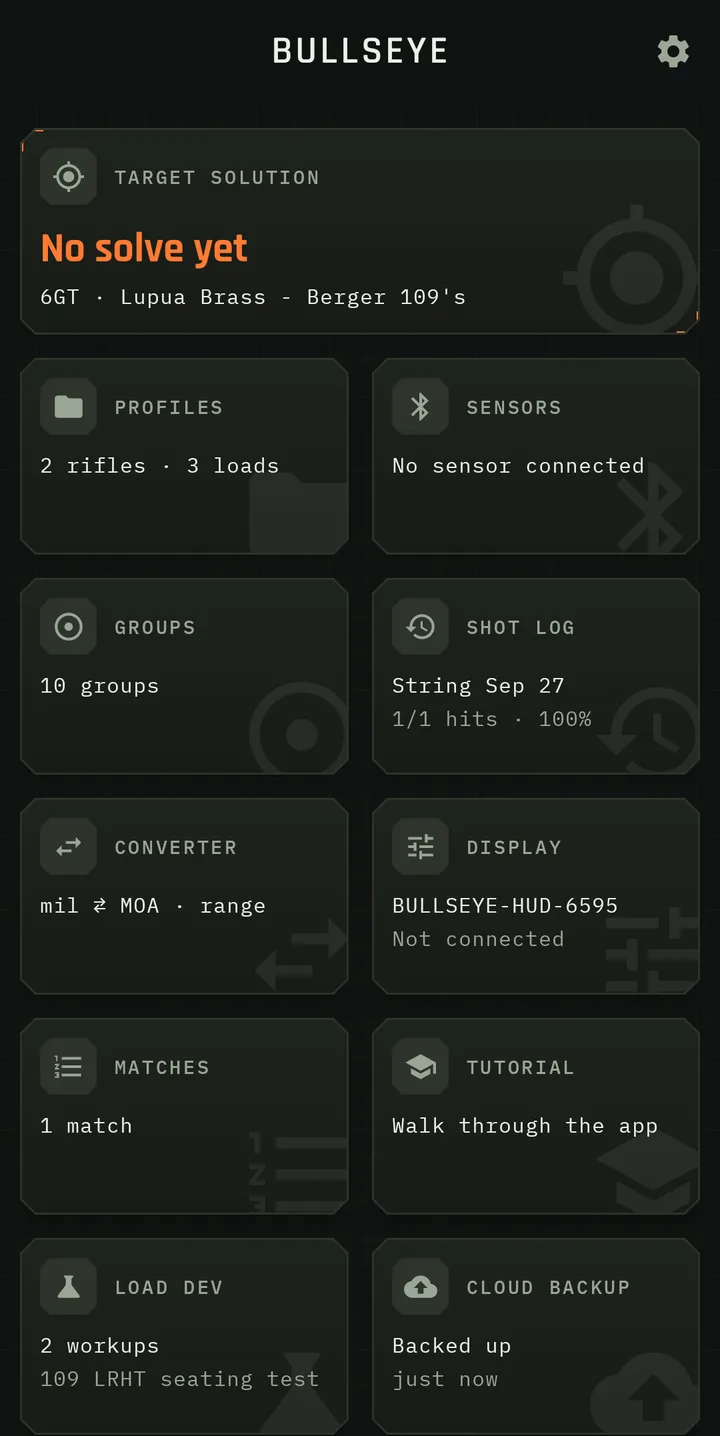
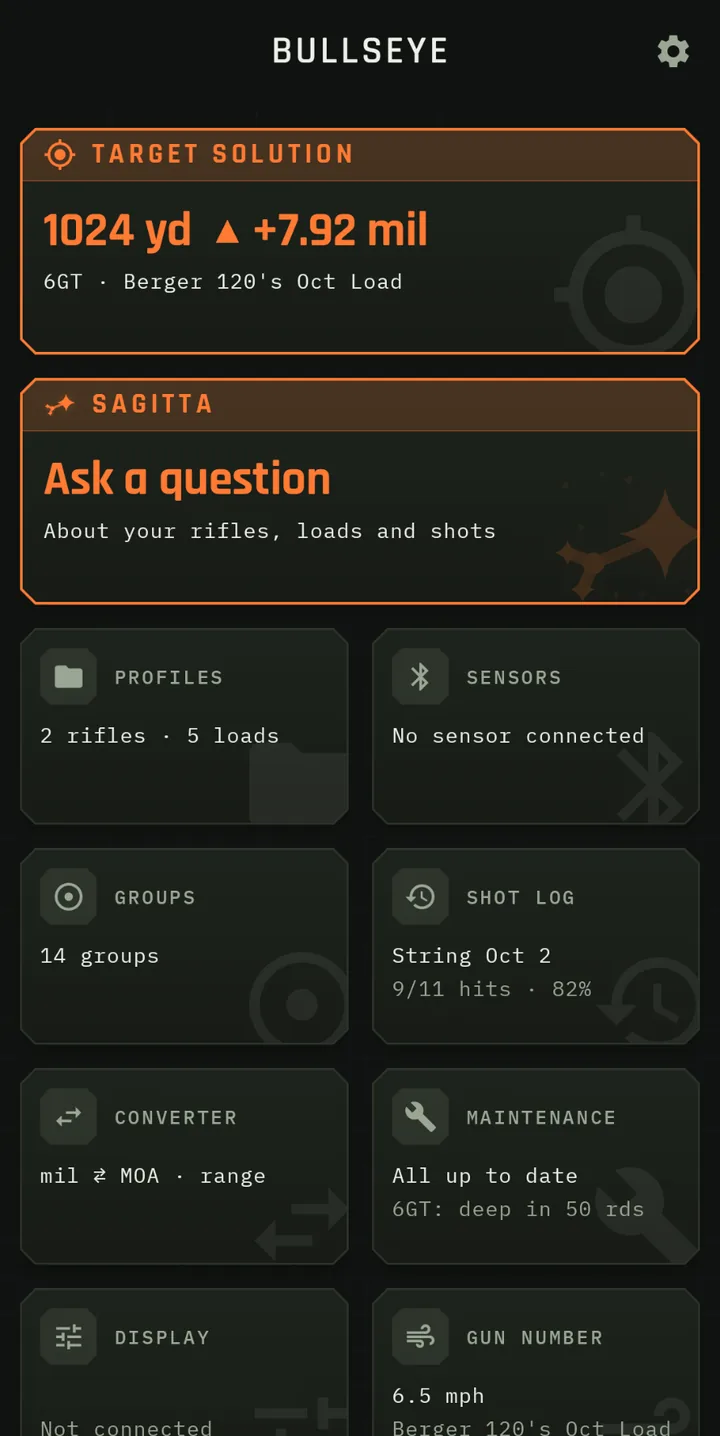
New home screen capture for Platform, and hero follow-ups
From the owner's "Website Updates 5" notes and follow-up answers:

- Feature tour, Platform: the home screen screenshot is replaced with a current capture
  (Sagitta, maintenance and gun number tiles). Status and navigation bars cropped, the
  display's name covered, 720 px WebP at quality 82. Alt text lists the new tiles.
- Solver: the chalkboard caption is shortened to "The physics behind the solver."
- Home hero: the label reads "Long-range ballistics solver" and the button
  "Coming soon to Android and iOS".

diff --git a/_pages/features.html b/_pages/features.html
@@ -227,7 +227,7 @@
           <div class="track">
           <figure>
             <div class="frame"><img src="{{ROOT}}assets/img/exterior-ballistics.webp" width="1431" height="894" loading="lazy" decoding="async" alt="A chalkboard titled Exterior Ballistics, Briefly: the point-mass equation of motion, the ballistic coefficient with G1 and G7 drag curves, Miller stability, and pitch, yaw and spin."></div>
-            <figcaption><div class="label">Exterior ballistics</div><p>The physics behind the solver: point-mass motion, ballistic coefficient, Miller stability, and pitch, yaw and spin.</p></figcaption>
+            <figcaption><div class="label">Exterior ballistics</div><p>The physics behind the solver.</p></figcaption>
           </figure>
           </div>
         </div>
@@ -704,7 +704,7 @@
       <div class="carousel single" data-carousel>
         <div class="track">
         <figure>
-          <div class="frame"><img src="{{ROOT}}assets/img/home.webp" width="720" height="1436" loading="lazy" decoding="async" alt="The home screen: tiles for target solution, profiles, sensors, groups, shot log, converter, display, matches, tutorial, load development and cloud backup, each showing its current state."></div>
+          <div class="frame"><img src="{{ROOT}}assets/img/home.webp" width="720" height="1436" loading="lazy" decoding="async" alt="The home screen: tiles for target solution, Sagitta, profiles, sensors, groups, shot log, converter, maintenance, display and gun number, each showing its current state."></div>
           <figcaption><div class="label">Home</div><p>Each tile shows where you left off. Arrange them your way.</p></figcaption>
         </figure>
         </div>

diff --git a/features/index.html b/features/index.html
@@ -267,7 +267,7 @@
           <div class="track">
           <figure>
             <div class="frame"><img src="../assets/img/exterior-ballistics.webp" width="1431" height="894" loading="lazy" decoding="async" alt="A chalkboard titled Exterior Ballistics, Briefly: the point-mass equation of motion, the ballistic coefficient with G1 and G7 drag curves, Miller stability, and pitch, yaw and spin."></div>
-            <figcaption><div class="label">Exterior ballistics</div><p>The physics behind the solver: point-mass motion, ballistic coefficient, Miller stability, and pitch, yaw and spin.</p></figcaption>
+            <figcaption><div class="label">Exterior ballistics</div><p>The physics behind the solver.</p></figcaption>
           </figure>
           </div>
         </div>
@@ -744,7 +744,7 @@
       <div class="carousel single" data-carousel>
         <div class="track">
         <figure>
-          <div class="frame"><img src="../assets/img/home.webp" width="720" height="1436" loading="lazy" decoding="async" alt="The home screen: tiles for target solution, profiles, sensors, groups, shot log, converter, display, matches, tutorial, load development and cloud backup, each showing its current state."></div>
+          <div class="frame"><img src="../assets/img/home.webp" width="720" height="1436" loading="lazy" decoding="async" alt="The home screen: tiles for target solution, Sagitta, profiles, sensors, groups, shot log, converter, maintenance, display and gun number, each showing its current state."></div>
           <figcaption><div class="label">Home</div><p>Each tile shows where you left off. Arrange them your way.</p></figcaption>
         </figure>
         </div>

diff --git a/_pages/home.html b/_pages/home.html
@@ -138,12 +138,12 @@
   <section class="hero">
     <div class="wrap">
       <div>
-        <div class="label">Long-range ballistics for Android</div>
+        <div class="label">Long-range ballistics solver</div>
         <h1>The ballistics solver <span>that learns your rifle.</span></h1>
         <p class="lead">Bullseye Ballistics is an integrated long-range shooting ecosystem that brings ballistic computation, shot logging, performance analysis and data from multiple simultaneous environmental sensors together in one app.</p>
         <p class="lead">At its core is Sagitta Ballistics AI ©, a deeply integrated ballistics AI that interprets environmental conditions, calculates firing solutions, evaluates hit probability and analyzes every recorded shot in context. It turns extremely complex data into immediate, actionable insight that becomes increasingly personalized over time. Sagitta explains why you missed, how to correct it and what your shooting history reveals.</p>
         <div class="cta-row">
-          <span class="btn btn-outline">Coming soon to Google Play</span>
+          <span class="btn btn-outline">Coming soon to Android and iOS</span>
         </div>
       </div>
       <div class="frame">

diff --git a/index.html b/index.html
@@ -178,12 +178,12 @@
   <section class="hero">
     <div class="wrap">
       <div>
-        <div class="label">Long-range ballistics for Android</div>
+        <div class="label">Long-range ballistics solver</div>
         <h1>The ballistics solver <span>that learns your rifle.</span></h1>
         <p class="lead">Bullseye Ballistics is an integrated long-range shooting ecosystem that brings ballistic computation, shot logging, performance analysis and data from multiple simultaneous environmental sensors together in one app.</p>
         <p class="lead">At its core is Sagitta Ballistics AI ©, a deeply integrated ballistics AI that interprets environmental conditions, calculates firing solutions, evaluates hit probability and analyzes every recorded shot in context. It turns extremely complex data into immediate, actionable insight that becomes increasingly personalized over time. Sagitta explains why you missed, how to correct it and what your shooting history reveals.</p>
         <div class="cta-row">
-          <span class="btn btn-outline">Coming soon to Google Play</span>
+          <span class="btn btn-outline">Coming soon to Android and iOS</span>
         </div>
       </div>
       <div class="frame">
